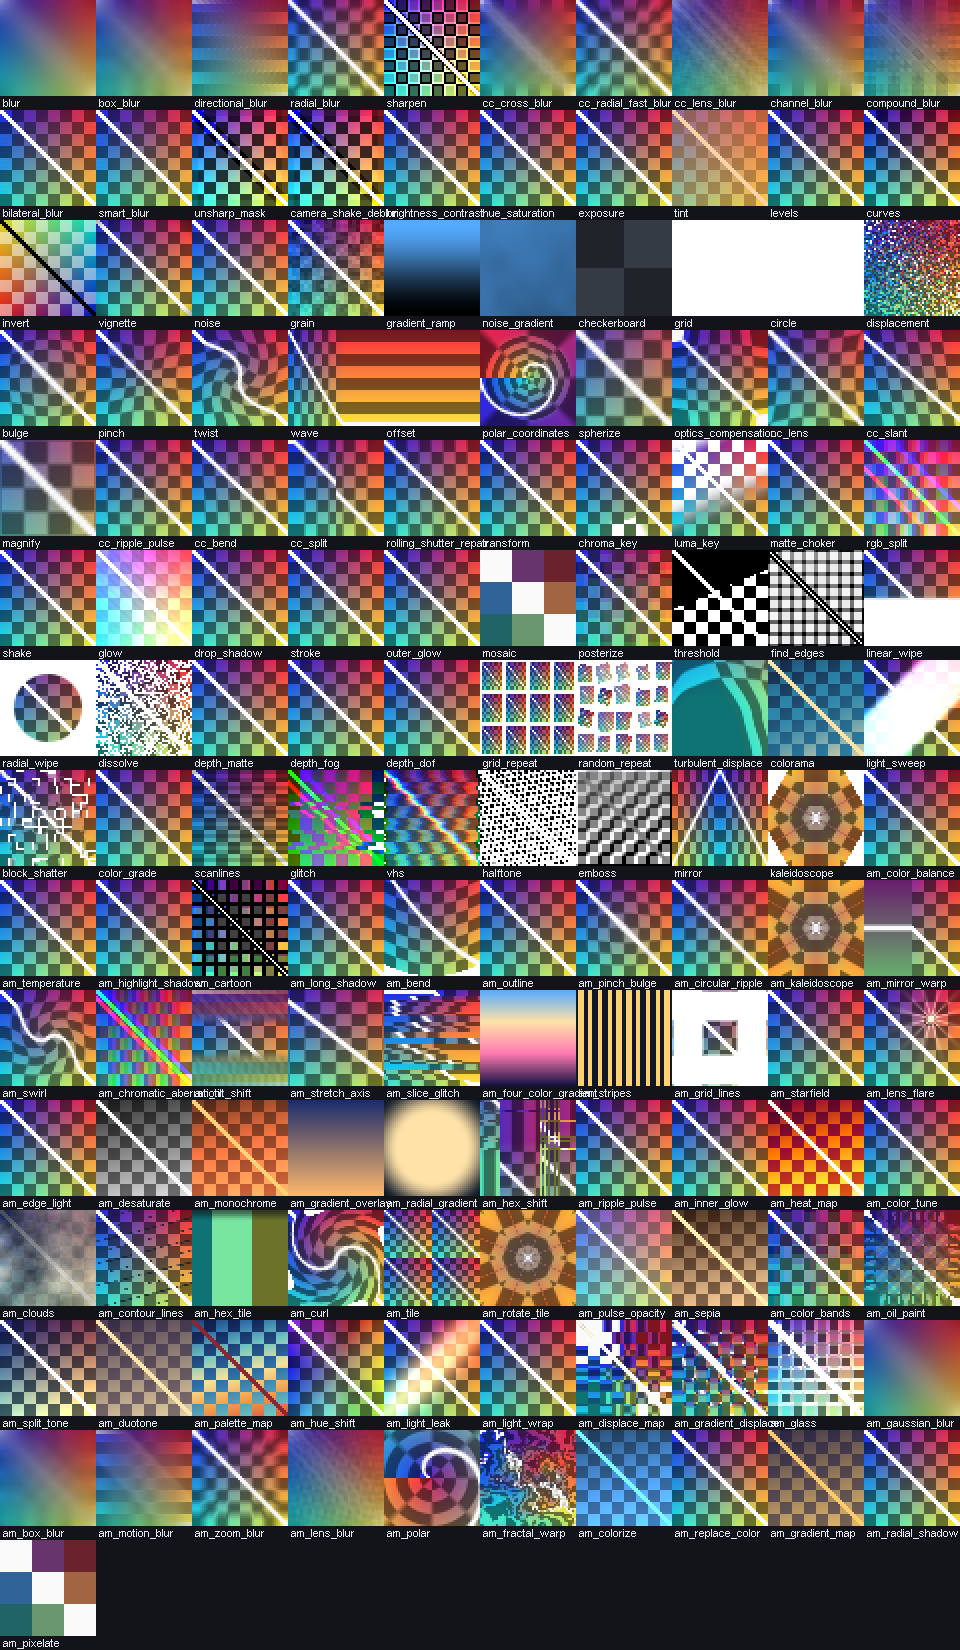
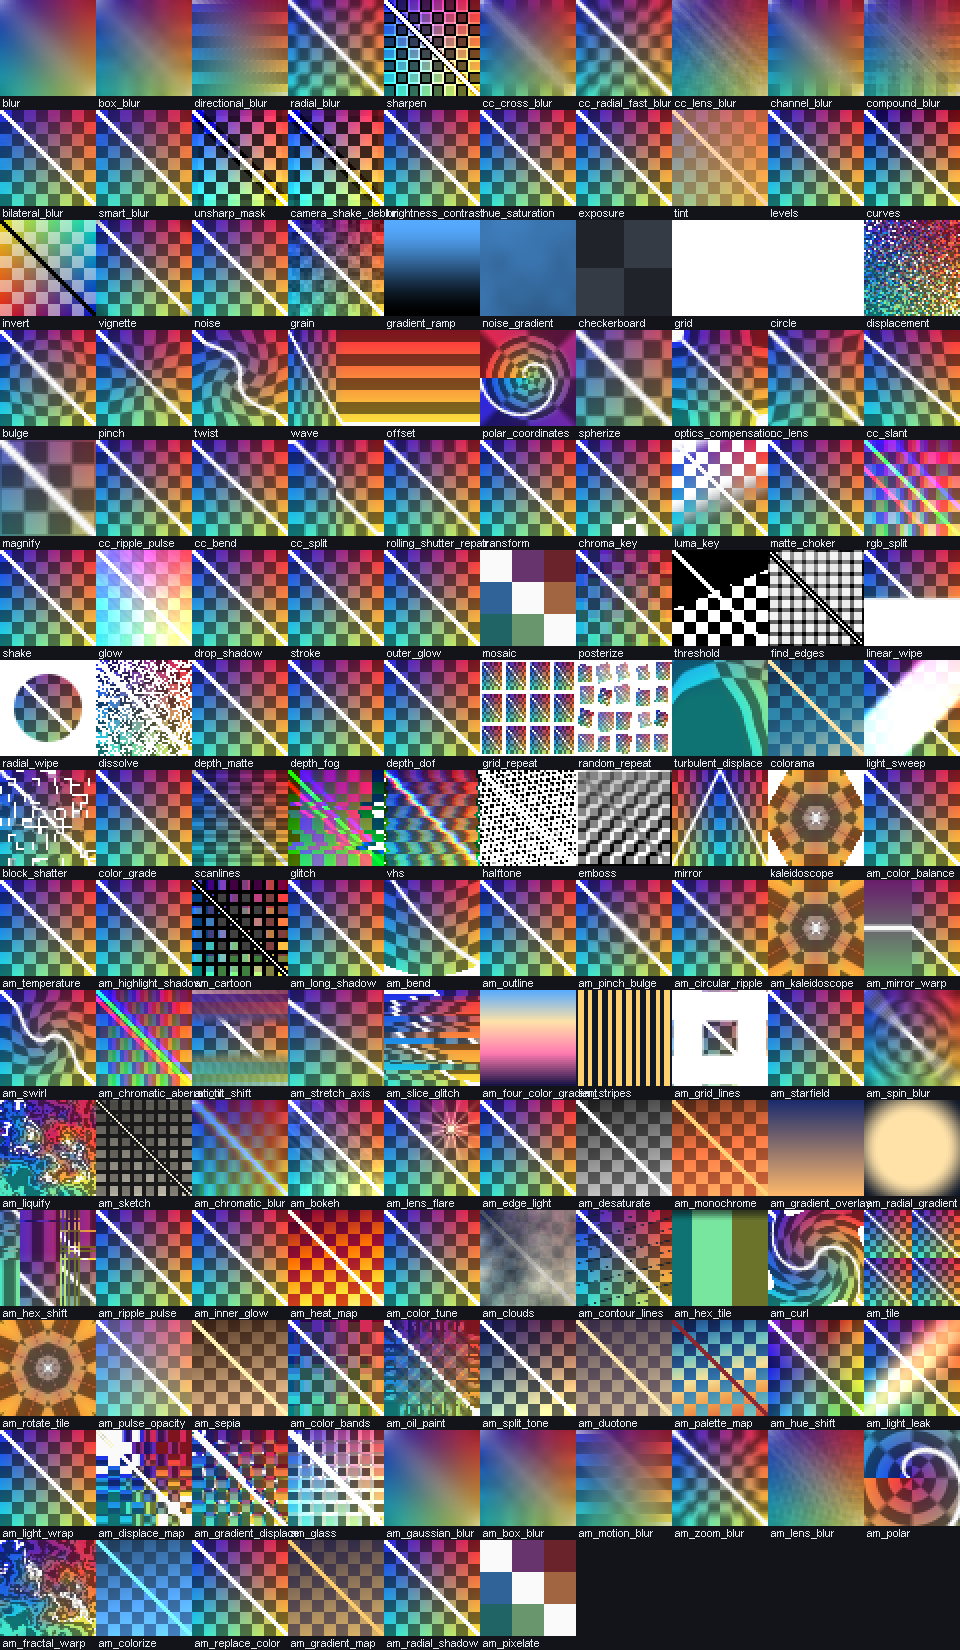
feat(0.41): spin blur, liquify, sketch, chromatic blur, bokeh
- 旋转模糊 (24-tap angular blur around a centre), 彩色模糊 (per-channel directional blur) under
  AM · 模糊.
- 液化 (two-channel fbm displacement in layer pixels) under AM · 变形.
- 素描 (edge + inverted luminance over a paper colour) and 散景 (bright-pass disc sampling) under
  AM · 风格化.
- All five bodies use layer space (luv / LayerSize / sampleLayer) and declare an identity parameter.
- 67 reference-compatible effects; ShaderCompileTest links all bodies; 321 tests green.
- Release bbsae-0.41.jar (SHA-256 BF7C63E7B80222FCCB2DECCC47FEF81B3B98B28704971C2637CD90FAA72361E7).

Changed region(s): [[0.0, 0.5873, 1.0, 1.0]]

diff --git a/src/main/java/dev/bbsae/comp/AmEffectLibrary.java b/src/main/java/dev/bbsae/comp/AmEffectLibrary.java
@@ -495,6 +495,116 @@ public final class AmEffectLibrary
             .p("alpha", "不透明度", 0F, 1F, 1F, 0.01F)
             .p("seed", "随机种子", 0F, 9999F, 0F, 1F));
 
+        add(new AmEffectDef("am_spin_blur", "旋转模糊", "AM · 模糊", """
+            void main()
+            {
+                vec2 luv = layerUv(vUv);
+                vec2 center = vec2(u_center_x, u_center_y);
+                vec2 d = luv - center;
+                float angle = radians(u_angle);
+                vec4 sum = vec4(0.0);
+
+                for (int i = 0; i < 24; i++)
+                {
+                    float t = (float(i) / 23.0 - 0.5) * angle;
+                    float c = cos(t);
+                    float s = sin(t);
+                    vec2 rotated = vec2(c * d.x - s * d.y, s * d.x + c * d.y);
+                    sum += sampleLayer(center + rotated);
+                }
+
+                fragColor = sum / 24.0;
+            }
+            """, 0.5F, "angle")
+            .p("angle", "角度", -180F, 180F, 20F, 0.5F)
+            .p("center_x", "中心 X", 0F, 1F, 0.5F, 0.01F)
+            .p("center_y", "中心 Y", 0F, 1F, 0.5F, 0.01F));
+
+        add(new AmEffectDef("am_liquify", "液化", "AM · 变形", """
+            void main()
+            {
+                vec2 luv = layerUv(vUv);
+                vec2 p = luv * max(u_scale, 0.01) + vec2(u_seed * 5.17);
+                float n1 = fbm(p, 4) - 0.5;
+                float n2 = fbm(p + 13.7, 4) - 0.5;
+                vec2 offset = vec2(n1, n2) * (2.0 * u_strength / max(LayerSize, vec2(1.0)));
+                vec4 c = sampleLayer(luv + offset);
+                fragColor = vec4(c.rgb, c.a);
+            }
+            """, 0.5F, "strength")
+            .p("strength", "强度（像素）", 0F, 400F, 40F, 1F)
+            .p("scale", "细节", 0.5F, 40F, 6F, 0.1F)
+            .p("seed", "随机种子", 0F, 9999F, 0F, 1F));
+
+        add(new AmEffectDef("am_sketch", "素描", "AM · 风格化", """
+            void main()
+            {
+                vec2 luv = layerUv(vUv);
+                vec4 c = sampleLayer(luv);
+                float left = luma(sampleLayer(luv - vec2(LayerTexel.x, 0.0)).rgb);
+                float right = luma(sampleLayer(luv + vec2(LayerTexel.x, 0.0)).rgb);
+                float up = luma(sampleLayer(luv - vec2(0.0, LayerTexel.y)).rgb);
+                float down = luma(sampleLayer(luv + vec2(0.0, LayerTexel.y)).rgb);
+                float edge = clamp(length(vec2(right - left, down - up)) * 6.0, 0.0, 1.0);
+                float y = luma(c.rgb);
+                float ink = clamp((1.0 - y) * 0.8 + edge, 0.0, 1.0);
+                vec3 paper = u_paper.rgb;
+                vec3 sketch = mix(paper, u_ink.rgb, ink);
+                fragColor = vec4(mix(c.rgb, sketch, clamp(u_strength, 0.0, 1.0)), c.a);
+            }
+            """, 0F, "strength")
+            .p("strength", "强度", 0F, 1F, 1F, 0.01F)
+            .c("paper", "纸张颜色", 0xFFF3ECD8)
+            .c("ink", "墨色", 0xFF1A1A1A));
+
+        add(new AmEffectDef("am_chromatic_blur", "彩色模糊", "AM · 模糊", """
+            void main()
+            {
+                vec2 luv = layerUv(vUv);
+                vec2 dir = vec2(cos(radians(u_angle)), sin(radians(u_angle))) * (u_strength / max(LayerSize, vec2(1.0)));
+                vec3 sum = vec3(0.0);
+
+                for (int i = 0; i < 12; i++)
+                {
+                    float t = float(i) / 11.0 - 0.5;
+                    sum.r += sampleLayer(luv + dir * (t * 1.0)).r;
+                    sum.g += sampleLayer(luv + dir * (t * 0.5)).g;
+                    sum.b += sampleLayer(luv + dir * (t * 0.0)).b;
+                }
+
+                vec4 c = sampleLayer(luv);
+                fragColor = vec4(clamp(sum / 12.0, 0.0, 1.0), c.a);
+            }
+            """, 0.5F, "strength")
+            .p("strength", "强度（像素）", 0F, 80F, 12F, 0.5F)
+            .p("angle", "角度", -180F, 180F, 0F, 1F));
+
+        add(new AmEffectDef("am_bokeh", "散景", "AM · 风格化", """
+            void main()
+            {
+                vec2 luv = layerUv(vUv);
+                vec4 c = sampleLayer(luv);
+                vec3 bright = vec3(0.0);
+
+                for (int i = 0; i < 24; i++)
+                {
+                    float a = float(i) * 2.3999632;
+                    float r = sqrt(float(i) / 23.0) * u_radius / max(LayerSize.x, 1.0);
+                    vec4 sample = sampleLayer(luv + vec2(cos(a), sin(a)) * r);
+                    float y = luma(sample.rgb);
+                    float weight = smoothstep(u_threshold, u_threshold + 0.15, y) * sample.a;
+
+                    bright += sample.rgb * weight;
+                }
+
+                bright /= 24.0;
+                fragColor = vec4(clamp(c.rgb + bright * u_intensity, 0.0, 1.0), c.a);
+            }
+            """, 0.5F, "intensity")
+            .p("radius", "半径（像素）", 0F, 80F, 16F, 1F)
+            .p("threshold", "亮度阈值", 0F, 1F, 0.65F, 0.01F)
+            .p("intensity", "强度", 0F, 3F, 0.8F, 0.01F));
+
         add(new AmEffectDef("am_lens_flare", "镜头光晕", "AM · 风格化", """
             void main()
             {

diff --git a/src/test/java/dev/bbsae/comp/AmEffectLibraryTest.java b/src/test/java/dev/bbsae/comp/AmEffectLibraryTest.java
@@ -37,7 +37,7 @@ public class AmEffectLibraryTest
             assertTrue(definition.body.contains("fragColor"), "body writes no colour: " + definition.id);
         }
 
-        assertTrue(ids.size() >= 62, "the catalogue should have grown with the flare batch");
+        assertTrue(ids.size() >= 67, "the catalogue should have grown with the blur/style batch");
     }
 
     @Test
@@ -118,6 +118,11 @@ public class AmEffectLibraryTest
         assertNeutral("am_tile", "scale", 1F);
         assertNeutral("am_pixelate", "size", 1F);
         assertNeutral("am_lens_flare", "intensity", 0F);
+        assertNeutral("am_spin_blur", "angle", 0F);
+        assertNeutral("am_liquify", "strength", 0F);
+        assertNeutral("am_sketch", "strength", 0F);
+        assertNeutral("am_chromatic_blur", "strength", 0F);
+        assertNeutral("am_bokeh", "intensity", 0F);
 
         CompEffect balance = CompEffectRegistry.create("am_color_balance", 1);
 

diff --git a/README.md b/README.md
@@ -110,15 +110,15 @@ export** without touching the `.dat` film format.
 
 ## Download / Install
 
-1. Download [`bbsae-0.40.jar`](https://github.com/zhongend/bbsae/releases/download/v0.40/bbsae-0.40.jar)
-   from the **v0.40** release (the asset is updated with each source push).
+1. Download [`bbsae-0.41.jar`](https://github.com/zhongend/bbsae/releases/download/v0.41/bbsae-0.41.jar)
+   from the **v0.41** release (the asset is updated with each source push).
 2. Install **Minecraft 1.20.1**, **Fabric Loader 0.16.14+**, **Fabric API 0.92.1+1.20.1** and
    **BBS FS 2.7-1.20.1**.
-3. Put `bbsae-0.40.jar` and the BBS FS jar into the game's `mods/` folder.
+3. Put `bbsae-0.41.jar` and the BBS FS jar into the game's `mods/` folder.
 4. Launch the game, open a film in BBS, select a replay, then use
    **Replay properties → Compositor → Open Film Compositor**.
 
[2 lines of base64/hex data omitted]
 
 ## Gallery
 
@@ -185,6 +185,14 @@ The compositor does not re-encode films or patch `.dat` files. BBS serializes a 
 `RegisterFrameOverlaysEvent` point. That means the same composition appears in BBS's preview and in
 its FFmpeg film export, and BBS keeps ownership of keyframes, undo, project storage and video
 encoding.
+
+## What's new in 0.41 — spin blur, liquify, sketch, chromatic blur, bokeh
+
+- **旋转模糊** (24-tap angular blur), **彩色模糊** (per-channel directional blur) in `AM · 模糊`.
+- **液化** (two-channel fbm displacement in layer pixels) in `AM · 变形`.
+- **素描** (edge + inverted luminance over a paper colour) and **散景** (bright-pass disc sampling)
+  in `AM · 风格化`.
+- 67 reference-compatible effects, all in layer space; 321 tests green.
 
 ## What's new in 0.40 — reference effects now work in layer space
 

diff --git a/docs/EFFECT-LIBRARY-PLAN.zh.md b/docs/EFFECT-LIBRARY-PLAN.zh.md
@@ -45,7 +45,7 @@
 新增三层，效果不再需要写进 `EffectRenderer` 的巨型 switch：
 
 - `comp/AmEffectDef`：id、显示名、分类、参数表（float/color）、`main()` 片段、零点参数。
-- `comp/AmEffectLibrary`：62 个效果的定义（色彩平衡、色温、高光与阴影、卡通、长阴影、
+- `comp/AmEffectLibrary`：67 个效果的定义（色彩平衡、色温、高光与阴影、卡通、长阴影、
   弯曲、描边、收缩与膨胀、圆形波纹、万花筒、镜像、旋转扭曲、像素化、极坐标、分形扭曲、
   色彩化、替换颜色、渐变映射、径向阴影），参数名/范围/默认值与参考应用一致。
 - `client/render/AmEffectRenderer`：按定义拼装完整 fragment（标准 uniform + 参数 uniform +
@@ -170,6 +170,7 @@ switch 中拆出来：
 4.18 **代理分辨率下的像素尺寸修复**：AM 效果的像素参数统一按**合成像素**换算
     （`Size/Texel` 使用 context 的合成尺寸，而不是代理 FBO 尺寸；可分离模糊也传合成 texel）。
     之前代理预览下所有半径/距离会按代理比例缩小，预览与导出不一致。
+4.21 **模糊/风格批**（旋转模糊、液化、素描、彩色模糊、散景；已完成）
 4.20 **图层空间适配（第一性原理修正）**
     - 每个 AM 效果体现在以 `vec2 luv = layerUv(vUv)` 为坐标系，像素半径用 `LayerSize`（图层像素）换算，
       采样通过 `sampleLayer(luv)`（内部 `localToCompUv` 把图层像素映射回合成 UV）；
